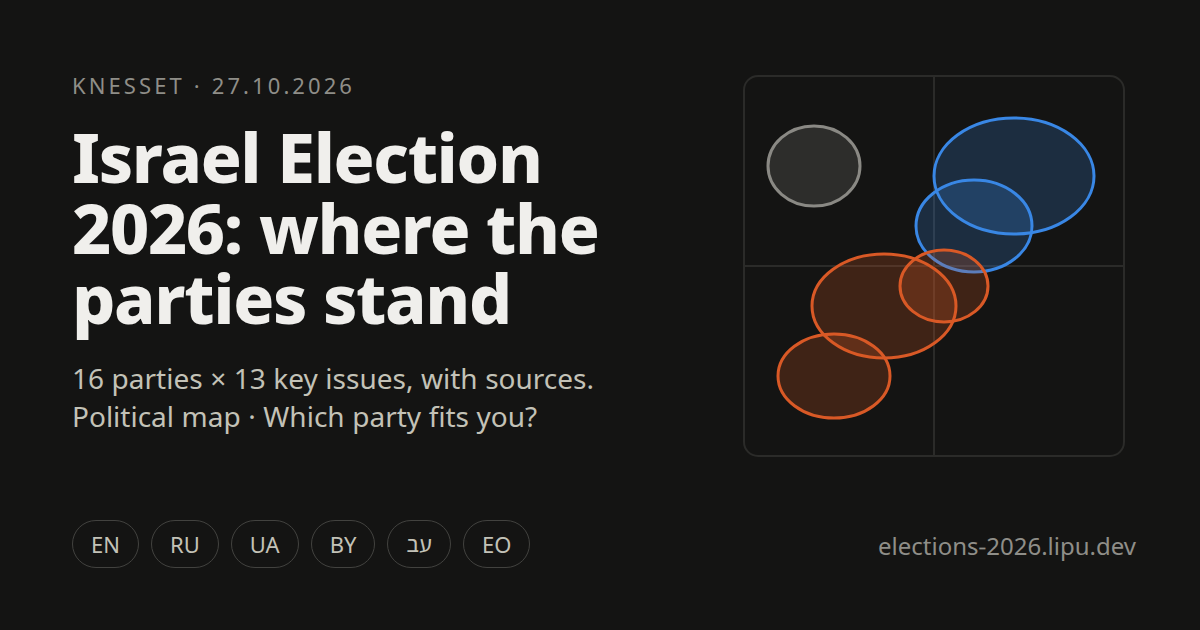
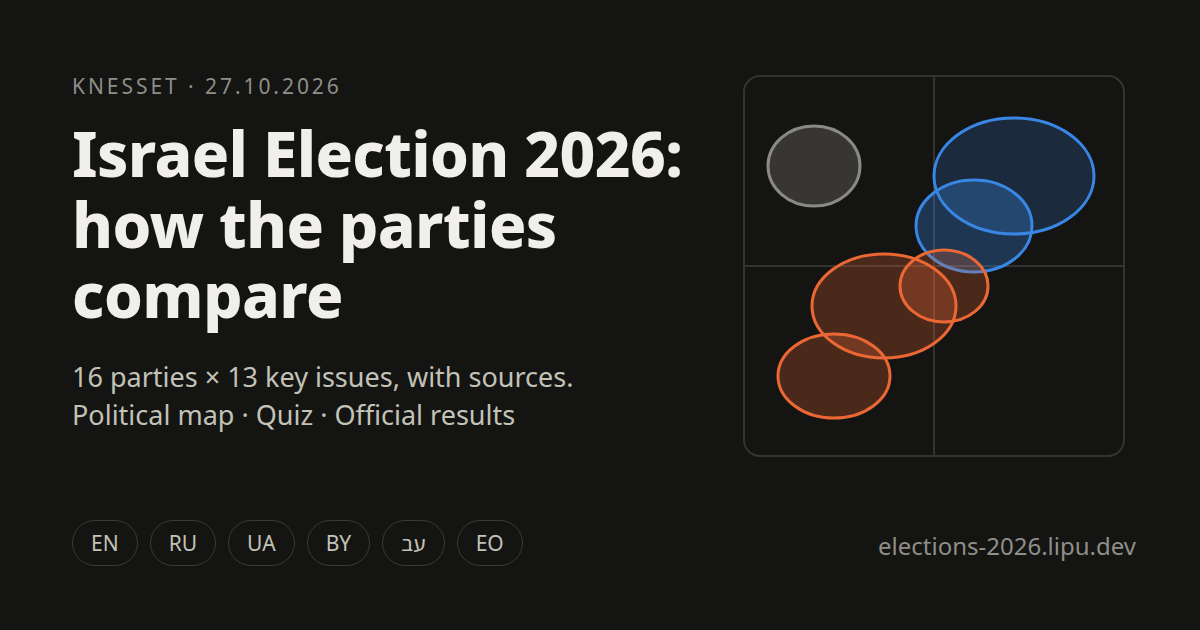
OG image: post-election wording (#28)
Same wording as the page title; mentions the official results the site links to.
The source is now in the repo (scripts/og-home.html).

diff --git a/scripts/og-home.html b/scripts/og-home.html
@@ -1,0 +1,32 @@
+<!doctype html>
+<!-- Source of public/og.png. Render:
+     google-chrome --headless=new --hide-scrollbars --window-size=1200,630 --user-data-dir=$(mktemp -d) \
+       --screenshot=public/og.png "file://$PWD/scripts/og-home.html" -->
+<html lang="en"><head><meta charset="utf-8"><style>
+  * { box-sizing: border-box; }
+  body { margin: 0; width: 1200px; height: 630px; overflow: hidden; position: relative; background: #141413; color: #f0efec;
+    font-family: 'Noto Sans', 'Noto Sans Hebrew', sans-serif; }
+  .k { position: absolute; left: 72px; top: 72px; margin: 0; font-size: 21px; letter-spacing: .14em; color: #8f8e88; }
+  h1 { position: absolute; left: 72px; top: 118px; width: 620px; margin: 0; font-size: 62px; line-height: 1.14; font-weight: 800; letter-spacing: -.01em; }
+  .s { position: absolute; left: 72px; top: 358px; margin: 0; font-size: 27px; line-height: 1.4; color: #c3c2b7; }
+  .chips { position: absolute; left: 72px; top: 520px; display: flex; gap: 12px; }
+  .chips span { padding: 8px 18px; border: 1px solid #3a3a37; border-radius: 999px; font-size: 21px; color: #c3c2b7; }
+  .url { position: absolute; right: 64px; top: 529px; margin: 0; font-size: 24px; color: #8f8e88; }
+  svg { position: absolute; left: 743px; top: 75px; }
+</style></head><body>
+  <p class="k">KNESSET · 27.10.2026</p>
+  <h1>Israel Election 2026: how the parties compare</h1>
+  <p class="s">16 parties × 13 key issues, with sources.<br>Political map · Quiz · Official results</p>
+  <div class="chips"><span>EN</span><span>RU</span><span>UA</span><span>BY</span><span>עב</span><span>EO</span></div>
+  <p class="url">elections-2026.lipu.dev</p>
+  <svg width="382" height="382" stroke-width="3">
+    <rect x="1" y="1" width="380" height="380" rx="16" fill="none" stroke="#333331" stroke-width="2"/>
+    <path d="M191 1V381M1 191H381" stroke="#333331" stroke-width="2"/>
+    <ellipse cx="71" cy="91" rx="46" ry="40" fill="#8a8984" fill-opacity=".3" stroke="#8a8984"/>
+    <ellipse cx="271" cy="101" rx="80" ry="58" fill="#3987e5" fill-opacity=".2" stroke="#3987e5"/>
+    <ellipse cx="231" cy="151" rx="58" ry="46" fill="#3987e5" fill-opacity=".3" stroke="#3987e5"/>
+    <ellipse cx="141" cy="231" rx="72" ry="52" fill="#eb6834" fill-opacity=".25" stroke="#eb6834"/>
+    <ellipse cx="201" cy="211" rx="44" ry="36" fill="#eb6834" fill-opacity=".25" stroke="#eb6834"/>
+    <ellipse cx="91" cy="301" rx="56" ry="42" fill="#eb6834" fill-opacity=".25" stroke="#eb6834"/>
+  </svg>
+</body></html>
